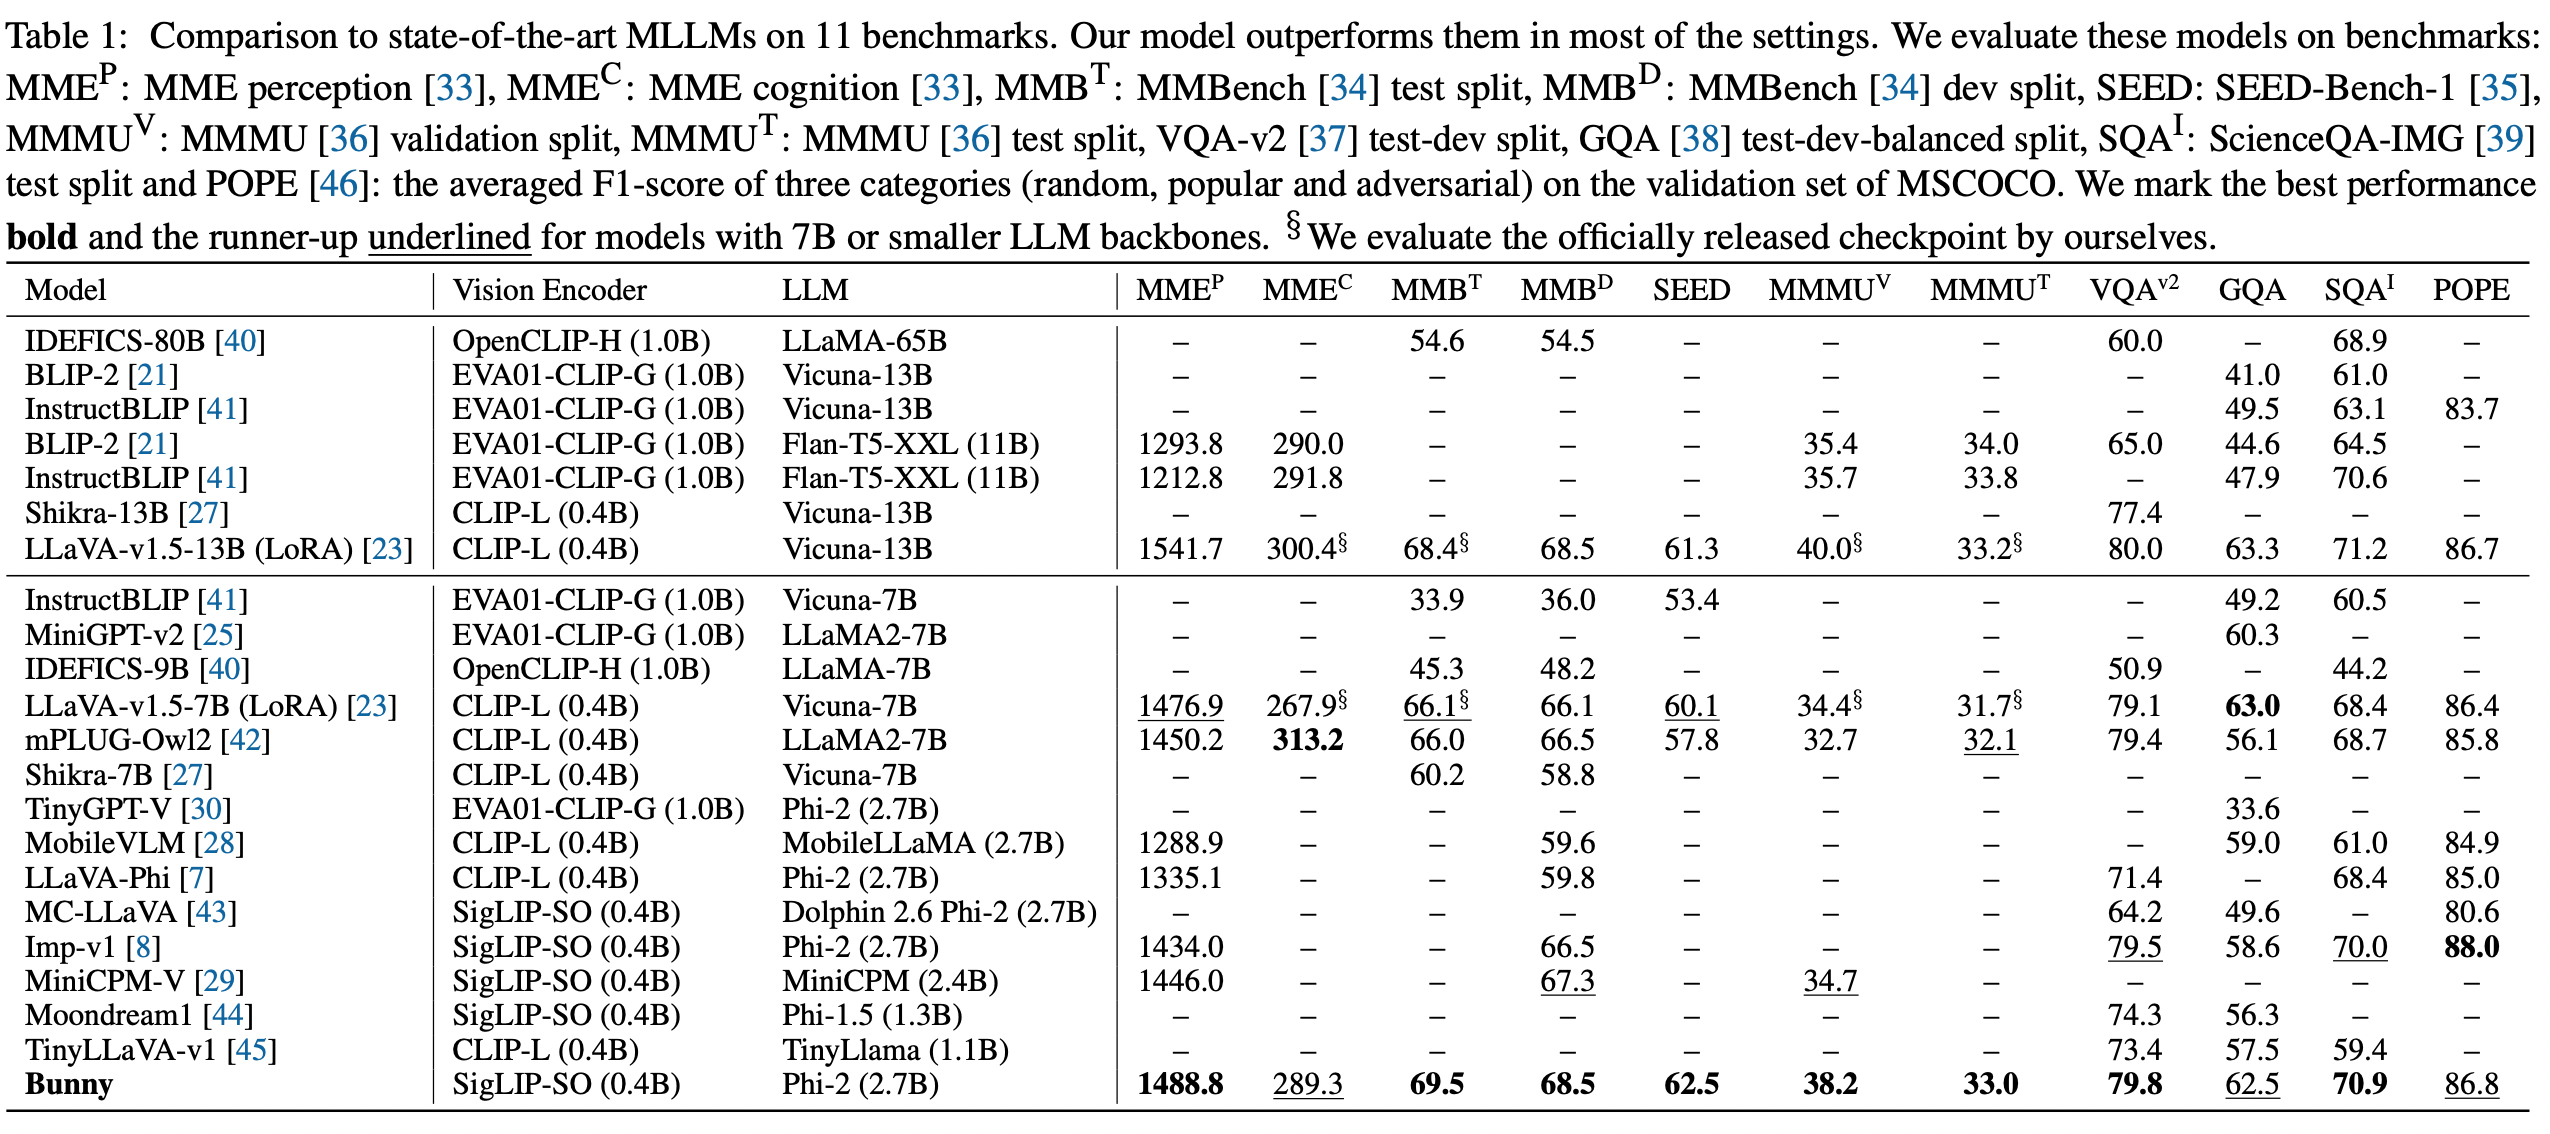
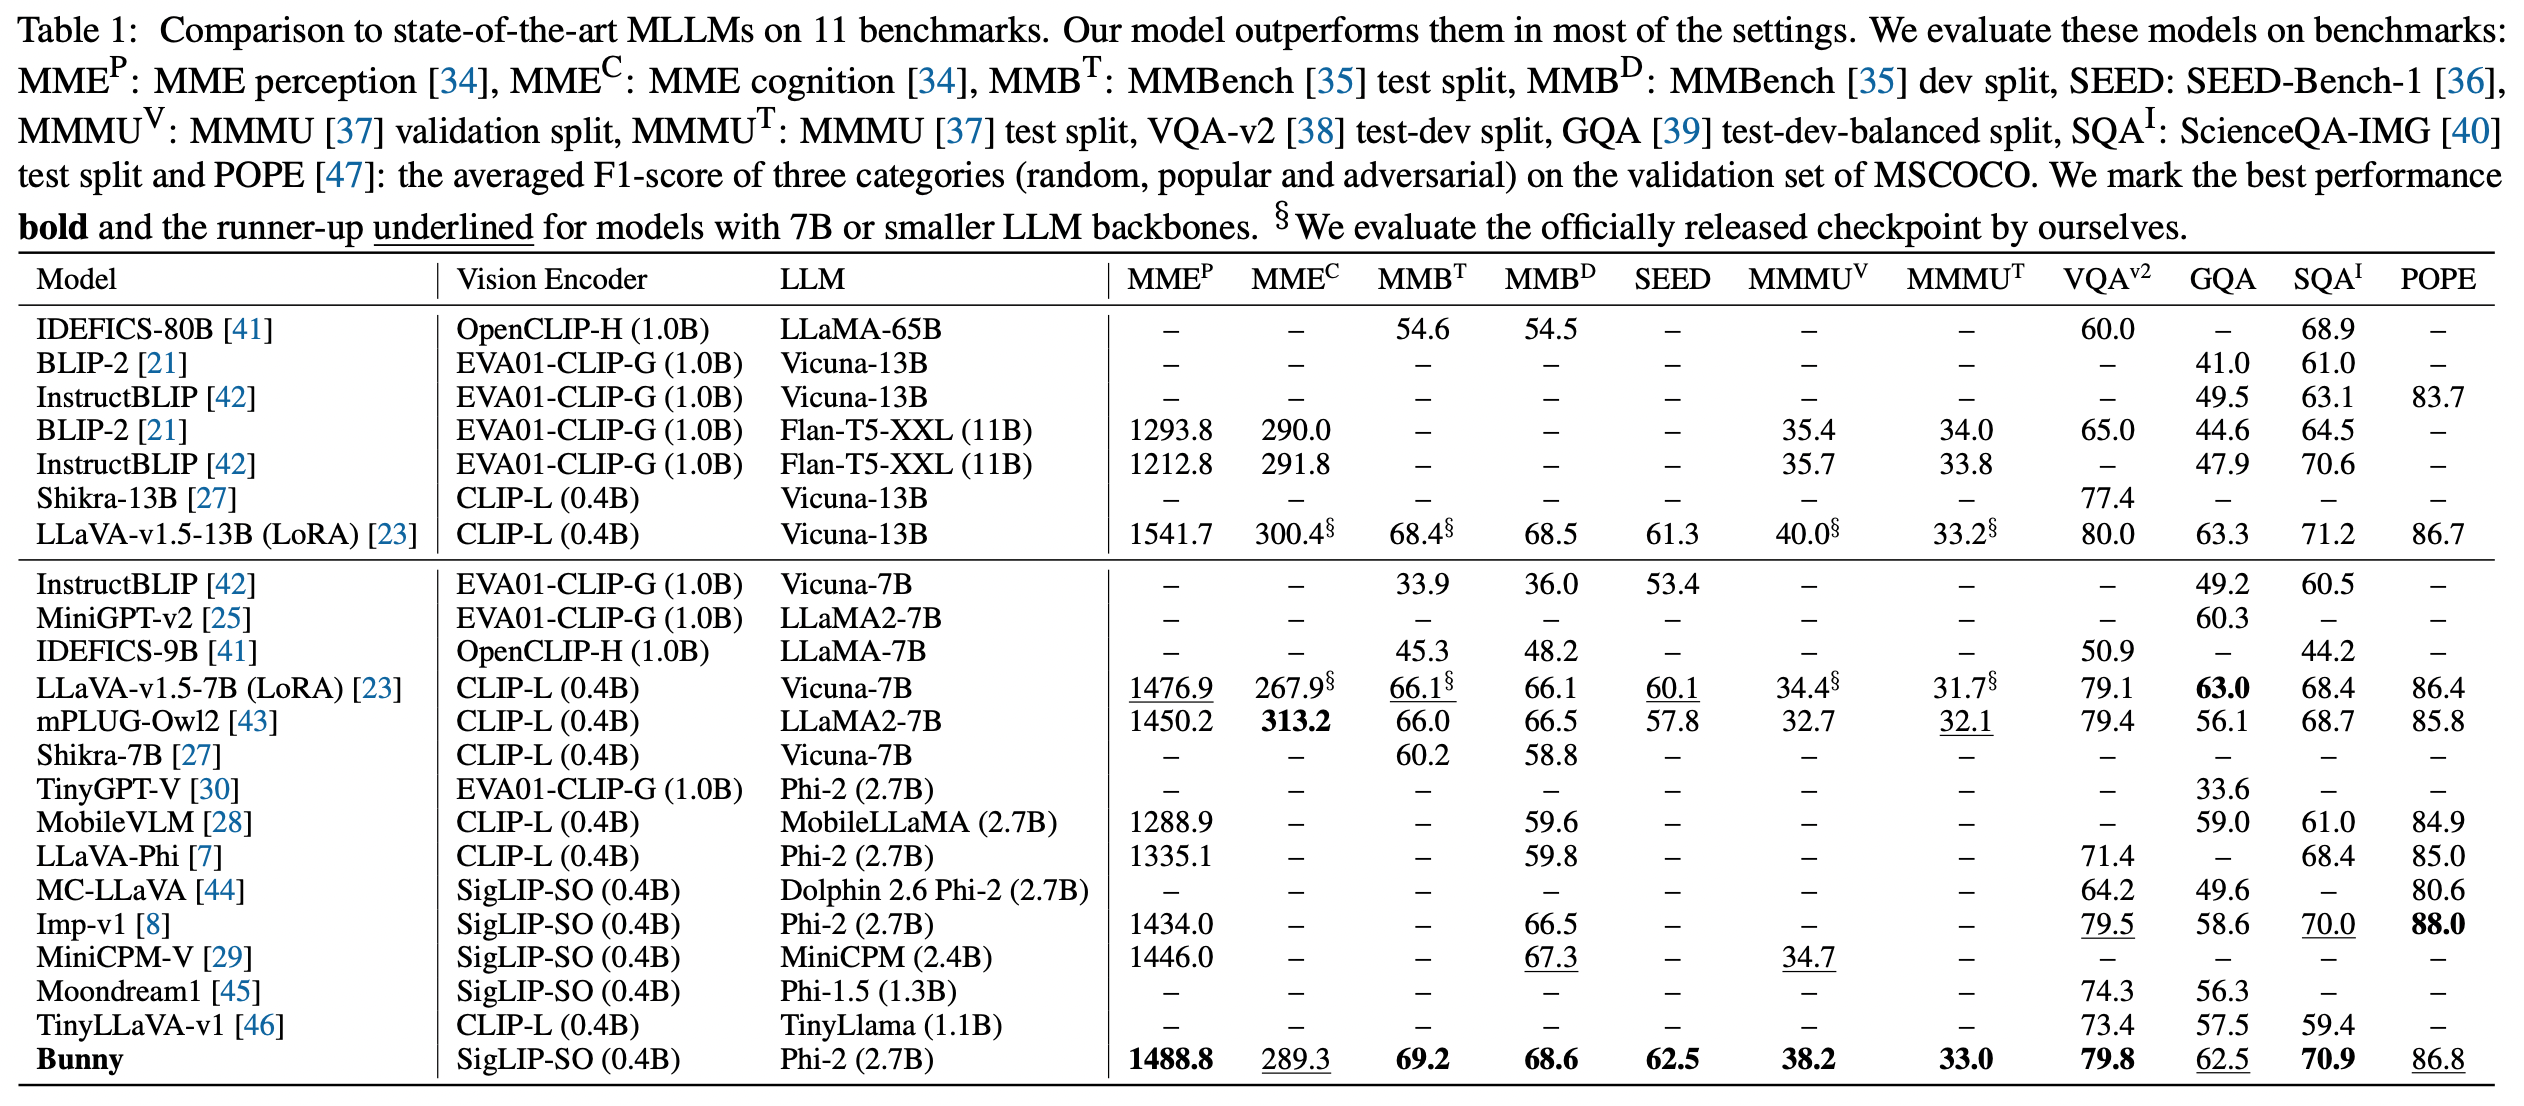
update MMBench scores

diff --git a/README.md b/README.md
@@ -22,12 +22,12 @@ Bunny is a family of lightweight but powerful multimodal models. It offers multi
   
 | Checkpoint                                                   | MME$`^\text{P}`$ | MME$`^\text{C}`$ | MMB$`^\text{T}`$ | MMB$`^\text{D}`$ | SEED | MMMU$`^\text{V}`$ | MMMU$`^\text{T}`$ | VQA$`^\text{v2}`$ | GQA  | SQA$`^\text{I}`$ | POPE |
 | ------------------------------------------------------------ | :--------------: | :--------------: | :--------------: | :--------------: | :--: | :---------------: | :---------------: | :---------------: | :--: | :----------------: | :----: |
-| [bunny-phi-1.5-eva-lora](https://huggingface.co/BoyaWu10/bunny-phi-1.5-eva-lora) |      1213.7      |      278.9      |       59.0       |       56.7       | 56.4 | 30.0 |       28.4       |       76.5       | 60.4 | 58.2           | 86.1 |
+| [bunny-phi-1.5-eva-lora](https://huggingface.co/BoyaWu10/bunny-phi-1.5-eva-lora) |      1213.7      |      278.9      |       60.9       |       56.8       | 56.4 | 30.0 |       28.4       |       76.5       | 60.4 | 58.2           | 86.1 |
 | [bunny-stablelm-2-eva-lora](https://huggingface.co/BoyaWu10/bunny-stablelm-2-eva-lora) |      1301.0      |      235.0       |       58.4       |       56.4       | 55.3 | 29.8 |       29.4        |       74.6        | 56.7 | 60.0             | 84.8 |
-| [bunny-phi-2-eva-lora](https://huggingface.co/BoyaWu10/bunny-phi-2-eva-lora) |      1421.0      |      285.4      |       66.4       |       66.6       | 62.2 | 35.9 |       32.6       |       78.9       | 62.3 | 69.1           | 87.1 |
-| [bunny-phi-1.5-siglip-lora](https://huggingface.co/BoyaWu10/bunny-phi-1.5-siglip-lora) |      1230.0      |      237.5      |       61.3       |       58.1       | 57.7 | 30.0 |       29.1       |       78.0       | 61.1 | 61.3            | 85.8 |
+| [bunny-phi-2-eva-lora](https://huggingface.co/BoyaWu10/bunny-phi-2-eva-lora) |      1421.0      |      285.4      |       68.6       |       67.4       | 62.2 | 35.9 |       32.6       |       78.9       | 62.3 | 69.1           | 87.1 |
+| [bunny-phi-1.5-siglip-lora](https://huggingface.co/BoyaWu10/bunny-phi-1.5-siglip-lora) |      1230.0      |      237.5      |       61.2       |       59.7       | 57.7 | 30.0 |       29.1       |       78.0       | 61.1 | 61.3            | 85.8 |
 | [bunny-stablelm-2-siglip-lora](https://huggingface.co/BoyaWu10/bunny-stablelm-2-siglip-lora) |      1366.8      |      236.1       |       65.1       |       62.8       | 58.8 | 29.9 |       29.8        |       78.9        | 60.9 | 61.1             | 85.9 |
-| **[bunny-phi-2-siglip-lora](https://huggingface.co/BAAI/bunny-phi-2-siglip-lora)** |      1488.8      |      289.3      |       69.5       |       68.5       | 62.5 | 38.2 |       33.0       |       79.8       | 62.5 | 70.9        | 86.8 |
+| **[bunny-phi-2-siglip-lora](https://huggingface.co/BAAI/bunny-phi-2-siglip-lora)** |      1488.8      |      289.3      |       69.2       |       68.6       | 62.5 | 38.2 |       33.0       |       79.8       | 62.5 | 70.9        | 86.8 |
 
 * Training details
   
